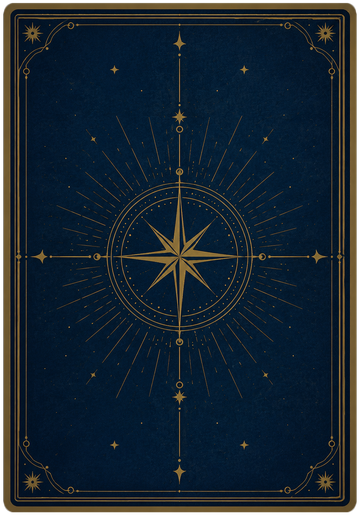
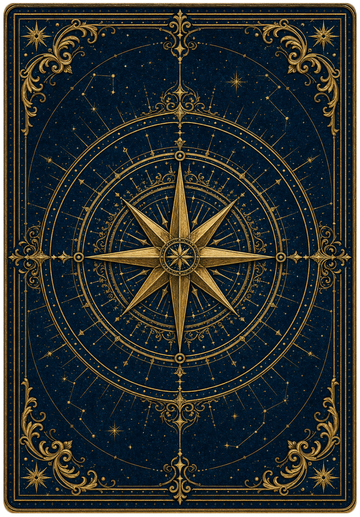
Spinner polish + Oden leather armor + lore captions
- revert title to gradient+glow (drop the dark stroke that read too dark); keep small caps
- spinner: heavy-cardstock texture, diagonal tilt, gentle float, particles behind card & wider spread, no particles on navbar card
- swap Oden paperdoll -> leather-armor fullbody
- captions: Rustmarch dust storms, Veilgate City of the Old Card Order; drop non-lore blurbs

diff --git a/main.js b/main.js
@@ -29,10 +29,10 @@ document.getElementById('steam-btn')?.addEventListener('click', (e) => {
   const cards = [...document.querySelectorAll('.spincard')];
   if (!cards.length) return;
 
-  const RATIO = 516 / 360;                       // card h/w
   const dpr = Math.min(window.devicePixelRatio || 1, 2);
   const img = new Image();
   img.src = 'assets/img/spin_card.png';
+  const TILT = -7 * Math.PI / 180;               // gentle diagonal lean
 
   let states = [];
   function setup(c) {
@@ -40,7 +40,10 @@ document.getElementById('steam-btn')?.addEventListener('click', (e) => {
     const w = Math.round(r.width) || c.width;
     const h = Math.round(r.height) || c.height;
     c.width = w * dpr; c.height = h * dpr;
-    return { ctx: c.getContext('2d'), w, h, parts: [], seed: Math.random() * 1000 };
+    return {
+      ctx: c.getContext('2d'), w, h, parts: [], seed: Math.random() * 1000,
+      sparks: !c.classList.contains('nav-card'),   // navbar card: no particles
+    };
   }
   const resize = () => { states = cards.map(setup); };
 
@@ -48,21 +51,24 @@ document.getElementById('steam-btn')?.addEventListener('click', (e) => {
     const { ctx, w, h } = s;
     ctx.setTransform(dpr, 0, 0, dpr, 0, 0);
     ctx.clearRect(0, 0, w, h);
-    const cx = w / 2, cy = h / 2;
+    const ratio = (img.naturalWidth ? img.naturalHeight / img.naturalWidth : 1.436);
+    const cx = w / 2;
     const ph = s.seed + t;
+    const floatY = Math.sin(t * 1.05 + s.seed) * (Math.min(w, h) * 0.045);  // gentle bob
+    const cy = h / 2 + floatY;
     const angle = t * 1.35;                        // spin speed (rad/s)
     const sx = Math.cos(angle);                    // vertical-axis foreshorten
-    const cardH = Math.min(w, h) * 0.74;
-    const cardW = cardH / RATIO;
+    const cardH = Math.min(w, h) * 0.72;
+    const cardW = cardH / ratio;
     const ew = Math.max(1, cardW * Math.abs(sx));
     const pulse = 0.5 + 0.5 * Math.sin(ph * 1.5);
 
-    // soft golden halo
-    const halo = ctx.createRadialGradient(cx, cy, cardH * 0.08, cx, cy, cardH * 0.8);
+    // soft golden halo (follows the card)
+    const halo = ctx.createRadialGradient(cx, cy, cardH * 0.08, cx, cy, cardH * 0.85);
     halo.addColorStop(0, `rgba(233,196,106,${0.20 + 0.12 * pulse})`);
     halo.addColorStop(1, 'rgba(233,196,106,0)');
     ctx.fillStyle = halo;
-    ctx.beginPath(); ctx.arc(cx, cy, cardH * 0.8, 0, 7); ctx.fill();
+    ctx.beginPath(); ctx.arc(cx, cy, cardH * 0.85, 0, 7); ctx.fill();
 
     // rotating light-flare rays
     ctx.save();
@@ -70,58 +76,60 @@ document.getElementById('steam-btn')?.addEventListener('click', (e) => {
     ctx.globalCompositeOperation = 'lighter';
     for (let i = 0; i < 4; i++) {
       ctx.rotate(Math.PI / 2);
-      const g = ctx.createLinearGradient(0, 0, cardH * 0.72, 0);
+      const g = ctx.createLinearGradient(0, 0, cardH * 0.78, 0);
       g.addColorStop(0, 'rgba(255,240,200,0)');
       g.addColorStop(0.5, `rgba(255,240,200,${0.10 + 0.07 * pulse})`);
       g.addColorStop(1, 'rgba(255,240,200,0)');
-      ctx.fillStyle = g; ctx.fillRect(0, -1.3, cardH * 0.72, 2.6);
+      ctx.fillStyle = g; ctx.fillRect(0, -1.3, cardH * 0.78, 2.6);
     }
     ctx.restore();
 
-    // the card itself
-    if (img.complete && img.naturalWidth) {
-      ctx.save();
-      ctx.globalAlpha = 0.9 + 0.1 * Math.abs(sx);   // dim slightly edge-on
-      ctx.drawImage(img, cx - ew / 2, cy - cardH / 2, ew, cardH);
-      // sweeping specular sheen
-      ctx.globalCompositeOperation = 'lighter';
-      const sp = (Math.sin(angle) + 1) / 2;
-      const sg = ctx.createLinearGradient(cx - ew / 2, 0, cx + ew / 2, 0);
-      sg.addColorStop(Math.max(0, sp - 0.18), 'rgba(255,255,255,0)');
-      sg.addColorStop(sp, `rgba(255,250,230,${0.28 * Math.abs(sx)})`);
-      sg.addColorStop(Math.min(1, sp + 0.18), 'rgba(255,255,255,0)');
-      ctx.fillStyle = sg; ctx.fillRect(cx - ew / 2, cy - cardH / 2, ew, cardH);
+    // gold sparkle particles — emitted from card center, drawn BEHIND the card,
+    // spread wide enough to be seen peeking out from behind it
+    if (s.sparks) {
+      if (s.parts.length < 22 && Math.random() < 0.55) {
+        const a = Math.random() * Math.PI * 2;
+        const spd = (0.6 + Math.random() * 1.1) * (Math.min(w, h) / 150);
+        s.parts.push({ x: cx, y: cy, vx: Math.cos(a) * spd, vy: Math.sin(a) * spd - 0.25,
+                       life: 1, sz: 1 + Math.random() * 1.8 });
+      }
+      ctx.save(); ctx.globalCompositeOperation = 'lighter';
+      for (let i = s.parts.length - 1; i >= 0; i--) {
+        const p = s.parts[i];
+        p.x += p.vx; p.y += p.vy; p.vy -= 0.01; p.life -= 0.011;
+        if (p.life <= 0) { s.parts.splice(i, 1); continue; }
+        ctx.globalAlpha = Math.max(0, p.life);
+        ctx.fillStyle = 'rgba(255,231,150,1)';
+        ctx.beginPath(); ctx.arc(p.x, p.y, p.sz * p.life, 0, 7); ctx.fill();
+      }
       ctx.restore();
     }
 
+    // the card itself — tilted on a gentle diagonal, drawn over the particles
+    ctx.save();
+    ctx.translate(cx, cy); ctx.rotate(TILT);
+    if (img.complete && img.naturalWidth) {
+      ctx.globalAlpha = 0.9 + 0.1 * Math.abs(sx);   // dim slightly edge-on
+      ctx.drawImage(img, -ew / 2, -cardH / 2, ew, cardH);
+      // sweeping specular sheen
+      ctx.globalCompositeOperation = 'lighter';
+      const sp = (Math.sin(angle) + 1) / 2;
+      const sg = ctx.createLinearGradient(-ew / 2, 0, ew / 2, 0);
+      sg.addColorStop(Math.max(0, sp - 0.18), 'rgba(255,255,255,0)');
+      sg.addColorStop(sp, `rgba(255,250,230,${0.28 * Math.abs(sx)})`);
+      sg.addColorStop(Math.min(1, sp + 0.18), 'rgba(255,255,255,0)');
+      ctx.fillStyle = sg; ctx.fillRect(-ew / 2, -cardH / 2, ew, cardH);
+    }
     // bright flare as the card turns edge-on
     const edge = 1 - Math.abs(sx);
     if (edge > 0.72) {
       const fa = (edge - 0.72) / 0.28;
-      ctx.save(); ctx.globalCompositeOperation = 'lighter';
-      const fg = ctx.createLinearGradient(0, cy - cardH / 2, 0, cy + cardH / 2);
+      ctx.globalCompositeOperation = 'lighter';
+      const fg = ctx.createLinearGradient(0, -cardH / 2, 0, cardH / 2);
       fg.addColorStop(0, 'rgba(255,246,212,0)');
       fg.addColorStop(0.5, `rgba(255,246,212,${0.8 * fa})`);
       fg.addColorStop(1, 'rgba(255,246,212,0)');
-      ctx.fillStyle = fg; ctx.fillRect(cx - 2, cy - cardH / 2, 4, cardH);
-      ctx.restore();
-    }
-
-    // gold sparkle particles
-    if (s.parts.length < 18 && Math.random() < 0.5) {
-      const a = Math.random() * Math.PI * 2;
-      const spd = (0.4 + Math.random() * 0.8) * (w / 300);
-      s.parts.push({ x: cx, y: cy, vx: Math.cos(a) * spd, vy: Math.sin(a) * spd - 0.2,
-                     life: 1, sz: 1 + Math.random() * 1.6 });
-    }
-    ctx.save(); ctx.globalCompositeOperation = 'lighter';
-    for (let i = s.parts.length - 1; i >= 0; i--) {
-      const p = s.parts[i];
-      p.x += p.vx; p.y += p.vy; p.vy -= 0.012; p.life -= 0.015;
-      if (p.life <= 0) { s.parts.splice(i, 1); continue; }
-      ctx.globalAlpha = Math.max(0, p.life);
-      ctx.fillStyle = 'rgba(255,231,150,1)';
-      ctx.beginPath(); ctx.arc(p.x, p.y, p.sz * p.life, 0, 7); ctx.fill();
+      ctx.fillStyle = fg; ctx.fillRect(-2, -cardH / 2, 4, cardH);
     }
     ctx.restore();
   }

diff --git a/index.html b/index.html
@@ -97,7 +97,7 @@
   <div class="showcase-inner">
     <div class="showcase-text reveal">
       <h2>A world worth wandering</h2>
-      <p class="lede">From the quiet shrines of Cardhollow to storm&#8209;lashed crests and lantern&#8209;lit harbors, the world of Card Knight is built to be explored — and it remembers you.</p>
+      <p class="lede">From the quiet shrines of Cardhollow to storm&#8209;lashed crests and the dust&#8209;blown Rustmarch, the world of Card Knight is built to be explored — and it remembers you.</p>
     </div>
     <div class="glass feature-wide reveal">
       <img src="assets/img/oden.png" alt="Oden, the hero" class="px hero-char" />
@@ -113,15 +113,14 @@
 <section class="section" id="screens">
   <div class="section-head reveal">
     <h2>Screens</h2>
-    <p class="lede">Captured in&#8209;engine. Pixel&#8209;perfect, no filters.</p>
   </div>
   <div class="gallery">
     <figure class="glass shot reveal"><img src="assets/shots/overworld.png" class="px" alt="Overworld town of Cardhollow" /><figcaption>Cardhollow — your first home</figcaption></figure>
     <figure class="glass shot reveal"><img src="assets/shots/battle.png" class="px" alt="Real-time card battle" /><figcaption>Real&#8209;time card combat</figcaption></figure>
     <figure class="glass shot reveal"><img src="assets/shots/stormcrest.png" class="px" alt="Stormcrest in the rain" /><figcaption>Stormcrest in the rain</figcaption></figure>
-    <figure class="glass shot reveal"><img src="assets/shots/harbor.png" class="px" alt="Lantern-lit harbor" /><figcaption>A lantern&#8209;lit harbor</figcaption></figure>
+    <figure class="glass shot reveal"><img src="assets/shots/harbor.png" class="px" alt="Dust storms on the Rustmarch" /><figcaption>Dust storms on the Rustmarch</figcaption></figure>
     <figure class="glass shot reveal"><img src="assets/shots/dialogue.png" class="px" alt="Voiced dialogue" /><figcaption>Voiced, characterful dialogue</figcaption></figure>
-    <figure class="glass shot reveal"><img src="assets/shots/veilgate.png" class="px" alt="The road to Veilgate" /><figcaption>The road to Veilgate</figcaption></figure>
+    <figure class="glass shot reveal"><img src="assets/shots/veilgate.png" class="px" alt="Veilgate, City of the Old Card Order" /><figcaption>Veilgate, City of the Old Card Order</figcaption></figure>
   </div>
 </section>
 

diff --git a/styles.css b/styles.css
@@ -100,11 +100,7 @@ section,header,footer{position:relative;z-index:1}
   font-size:clamp(2.6rem,8.4vw,5.6rem);line-height:.95;letter-spacing:.06em;
   background:linear-gradient(180deg,#fff4cf 0%,var(--gold) 45%,var(--gold-deep) 100%);
   -webkit-background-clip:text;background-clip:text;color:transparent;
-  /* dark stroke (8-way) + outer glow, borrowed from the old Luminari treatment */
-  text-shadow:
-    -2px -2px 0 #2a1c05, 2px -2px 0 #2a1c05, -2px 2px 0 #2a1c05, 2px 2px 0 #2a1c05,
-    -2px 0 0 #2a1c05, 2px 0 0 #2a1c05, 0 -2px 0 #2a1c05, 0 2px 0 #2a1c05,
-    0 4px 12px rgba(0,0,0,.55), 0 0 26px rgba(233,196,106,.35);
+  filter:drop-shadow(0 3px 10px rgba(0,0,0,.6)) drop-shadow(0 0 22px rgba(233,196,106,.25));
 }
 .wm-title .sc{ font-size:.74em; }   /* small caps — smaller than the leading caps */
 .wm-sub{